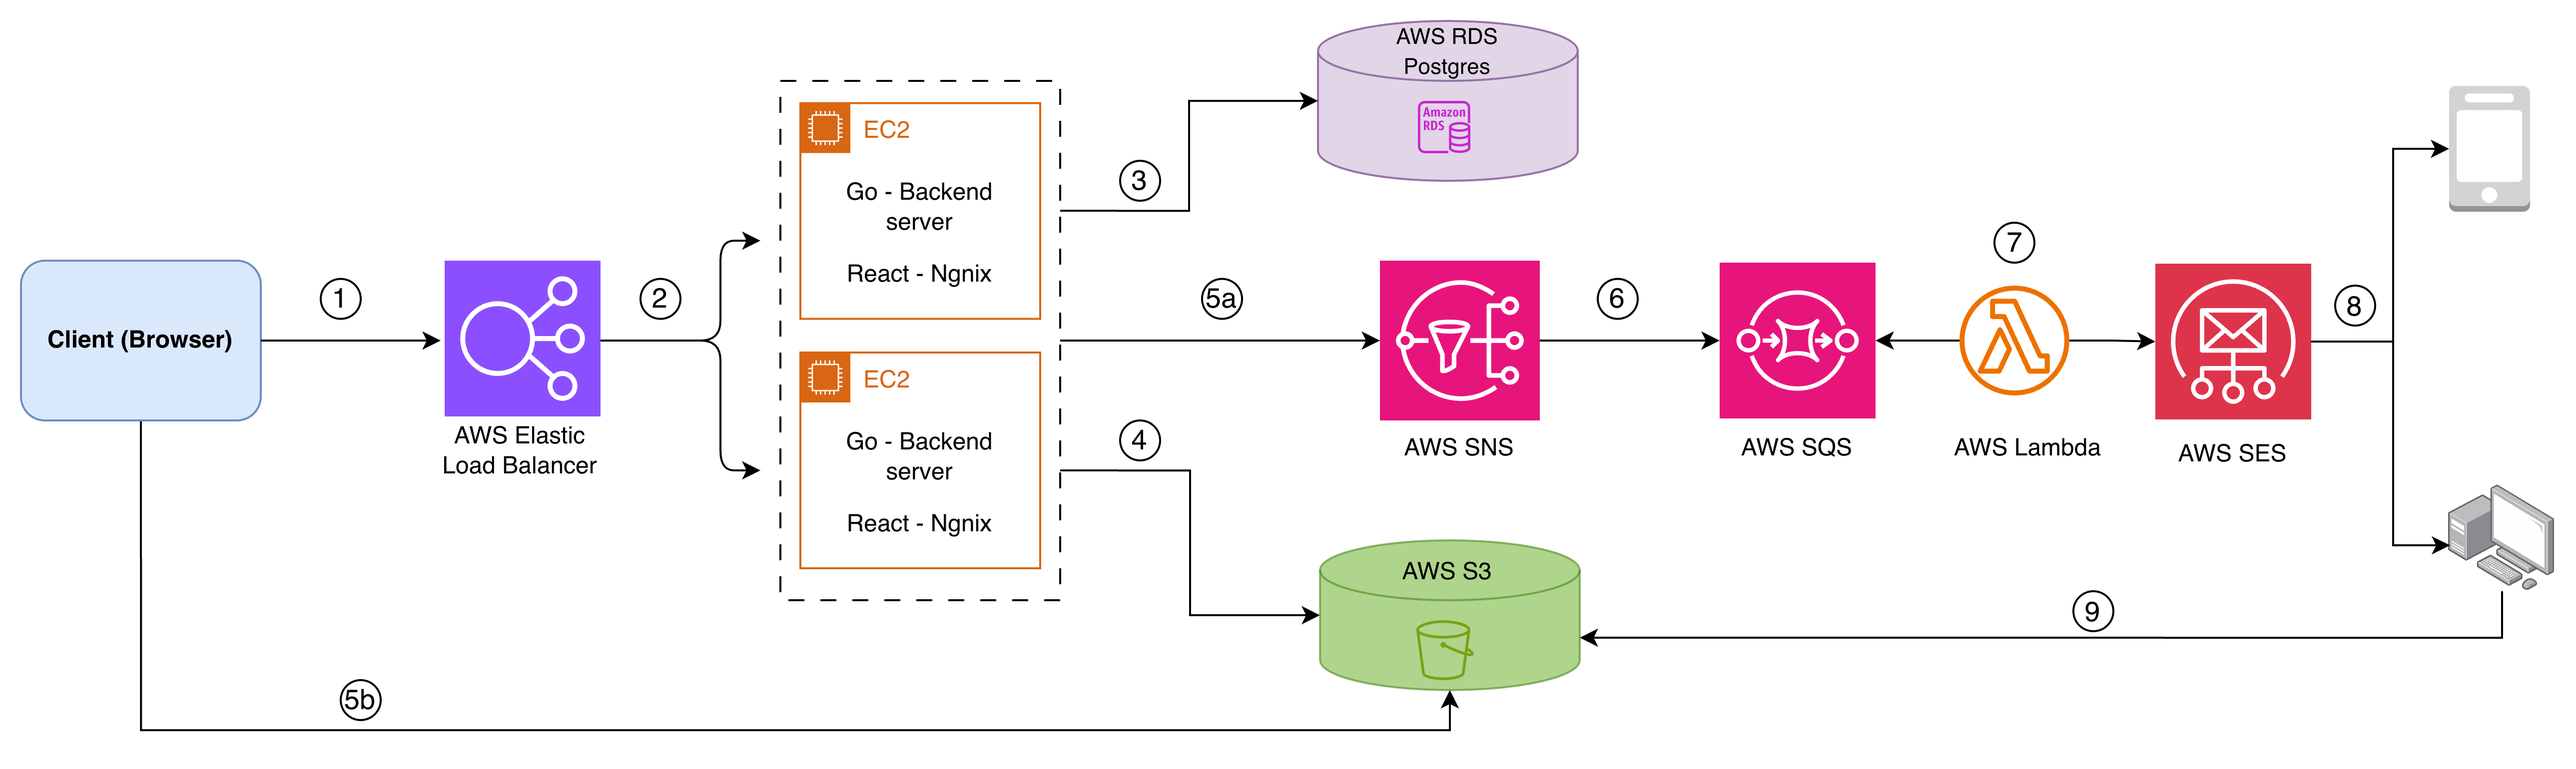
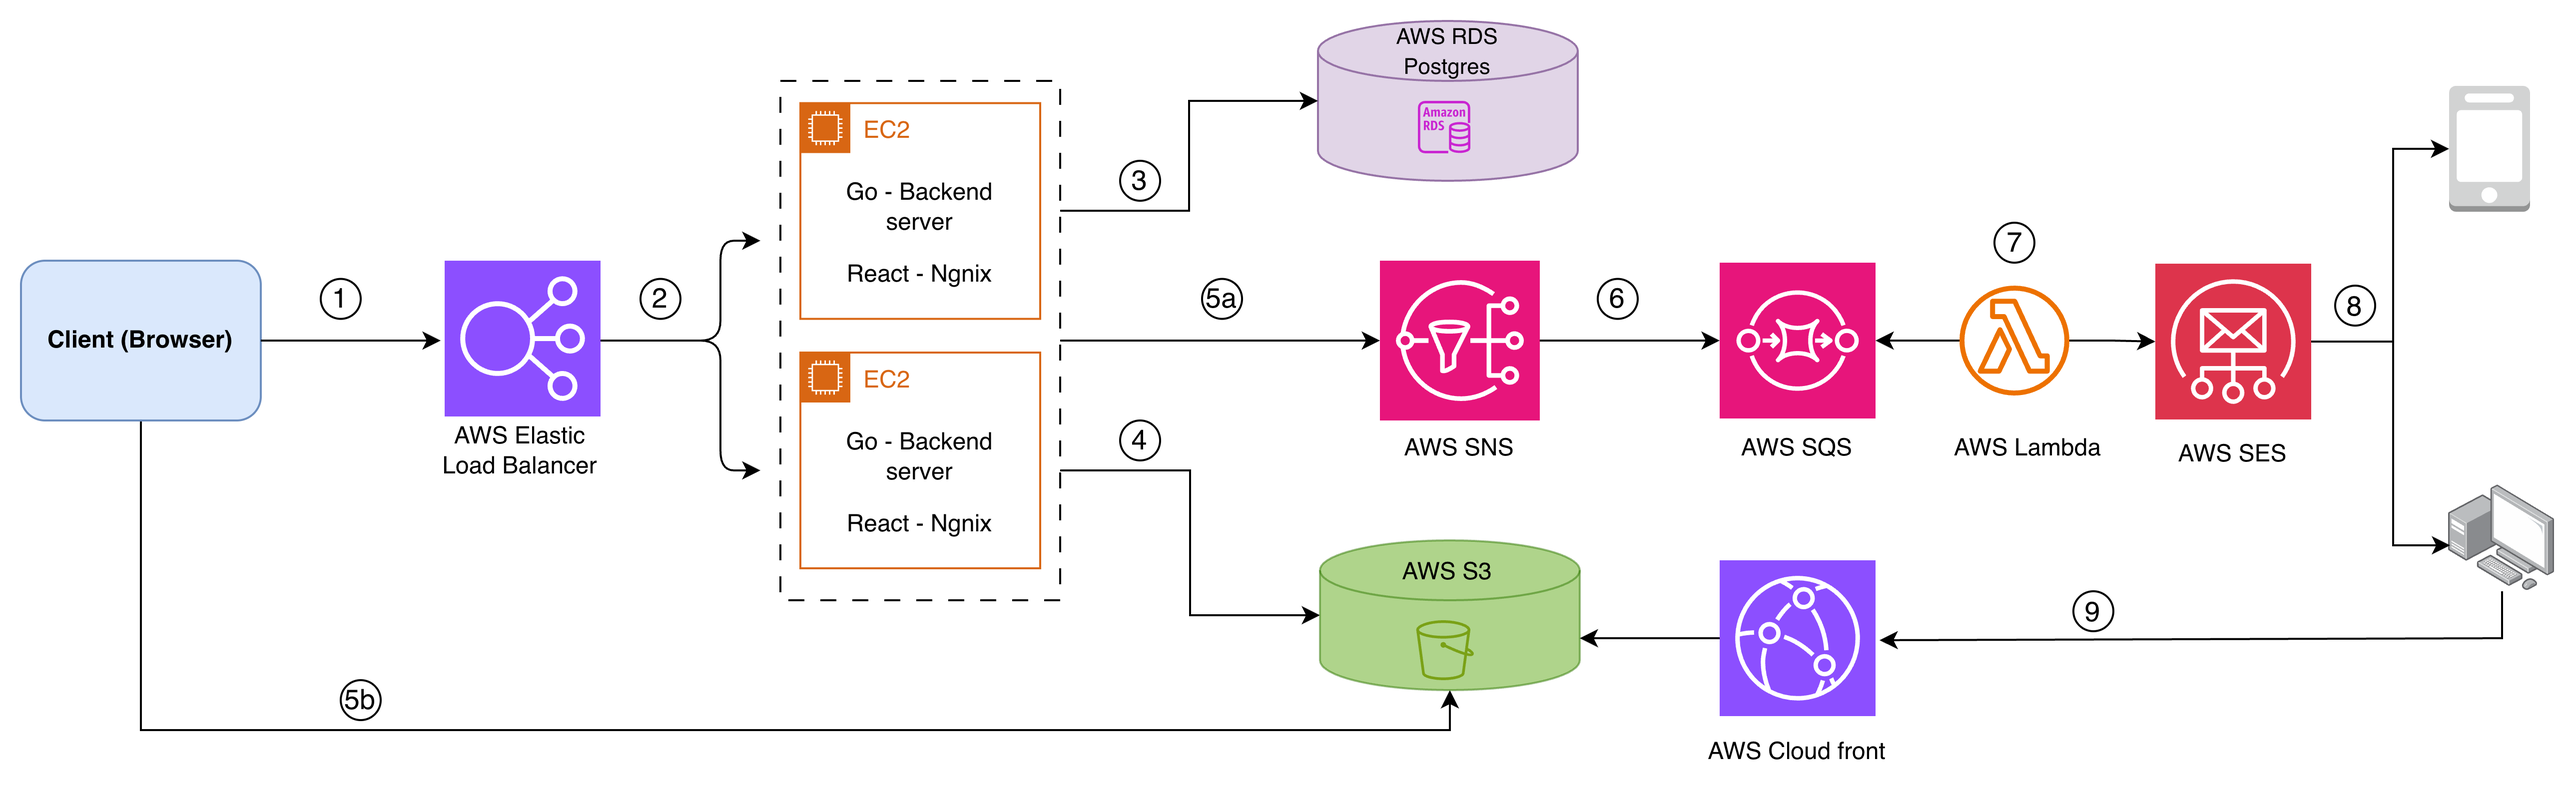
Updated readme and architecture diagram

diff --git a/internal/storage/sns.go b/internal/storage/sns.go
@@ -25,7 +25,6 @@ func NewSNS(ctx context.Context) (*SNS, error) {
 }
 
 // ShareDownloadMessage is the event published to SNS for email sharing
-// TODO: Replace direct S3 URLs with application-level download links
 type ShareDownloadMessage struct {
 	EventType   string   `json:"event_type"`
 	TransferID  string   `json:"transfer_id"`

diff --git a/README.md b/README.md
@@ -1,4 +1,4 @@
-# SwiftDrop
+# We Transfer
 
 A backend service that enables secure, scalable file transfers using **Go**, **PostgreSQL**, and **AWS S3 presigned URLs**.  
 The backend manages transfer lifecycle and permissions, while file bytes are uploaded and downloaded directly from S3.
@@ -13,6 +13,66 @@ This project demonstrates a WeTransfer-style backend architecture where:
 - File uploads/downloads happen directly between client and S3
 - Transfer lifecycle and permissions are enforced server-side
 - The backend never proxies file bytes
+
+---
+
+## System Architecture
+
+This section provides a visual overview of the file transfer architecture, including both **Upload** and **Download** flows.
+
+### Upload Flow Architecture
+
+![Upload Flow Architecture](upload.design.drawio.svg)
+
+#### Upload Flow Steps
+
+| Step | Title | Description |
+|------|-------|-------------|
+| 1 | **Request Upload URL** | User selects a file and the React frontend sends a request to the Go backend (AWS EC2) to generate a presigned upload URL. |
+| 2 | **Backend Contacts AWS S3** | Go backend communicates with AWS S3 to create a presigned URL valid for 5 minutes. This URL grants temporary, secure upload access. |
+| 3 | **Store Metadata in PostgreSQL** | Transfer metadata (filename, size, expiry, etc.) is stored in PostgreSQL RDS for tracking and management. |
+| 4 | **URL Returned to Client** | The presigned URL is returned to the frontend client, ready for direct upload. |
+| 5/6 | **Client Uploads Directly to S3** | The client automatically uploads the file directly to AWS S3 using the presigned URL via HTTPS. Backend is completely bypassed for the file transfer. |
+
+#### Upload Flow Key Benefits
+
+- ⏱ Upload URLs expire in 5 minutes
+- 💾 Direct S3 upload bypasses server
+- 🖥 Frontend & Backend on AWS EC2
+- 🗄 Metadata stored in PostgreSQL RDS
+- 🌐 Secure HTTPS transfer via AWS
+- ✅ Scalable cloud architecture
+
+---
+
+### Download Flow Architecture
+
+![Download Flow Architecture](download.design.drawio.svg)
+
+#### Download Flow Steps
+
+| Step | Title | Description |
+|------|-------|-------------|
+| 1 | **Client Request via Load Balancer** | User clicks download. The request goes through AWS Elastic Load Balancer which distributes traffic to healthy EC2 instances. |
+| 2 | **EC2 Backend Processes Request** | Go backend on EC2 receives the request, verifies transfer status, and generates a presigned download URL from AWS S3. |
+| 3 | **Metadata Query to RDS** | Backend queries AWS RDS PostgreSQL for file metadata and updates download count for analytics. |
+| 4 | **Publish Notification to SNS** | Backend publishes a download event to AWS SNS topic for asynchronous notification processing. |
+| 5a | **SNS Fans Out to SQS** | SNS receives the download event and fans out the message to the SQS queue for asynchronous processing. |
+| 5b | **Presigned URL Returned to Client** | Meanwhile, the presigned download URL is returned to the client for direct file access. |
+| 6 | **SQS Triggers Lambda** | AWS Lambda is triggered by the SQS message to process the download notification event. |
+| 7 | **Lambda Invokes SES** | Lambda processes the event and invokes AWS SES (Simple Email Service) to send the notification. |
+| 8 | **SES Sends Email with Download Link** | AWS SES delivers the email notification with the download link to the recipient. |
+| 9 | **Download via CloudFront CDN** | Client downloads the file directly from S3 via AWS CloudFront CDN, providing low-latency access with edge caching for faster downloads globally. |
+
+#### Download Flow Key Benefits
+
+- 🌐 Elastic Load Balancer for high availability
+- � CloudFront CDN for low-latency global edge caching
+- �💾 Direct S3 download bypasses server
+- 🔗 Event-driven architecture with SNS & SQS
+- ⚡ Serverless notifications with Lambda
+- 📧 Email notifications with download link via AWS SES
+- 📊 Download analytics in PostgreSQL RDS
 
 ---
 
